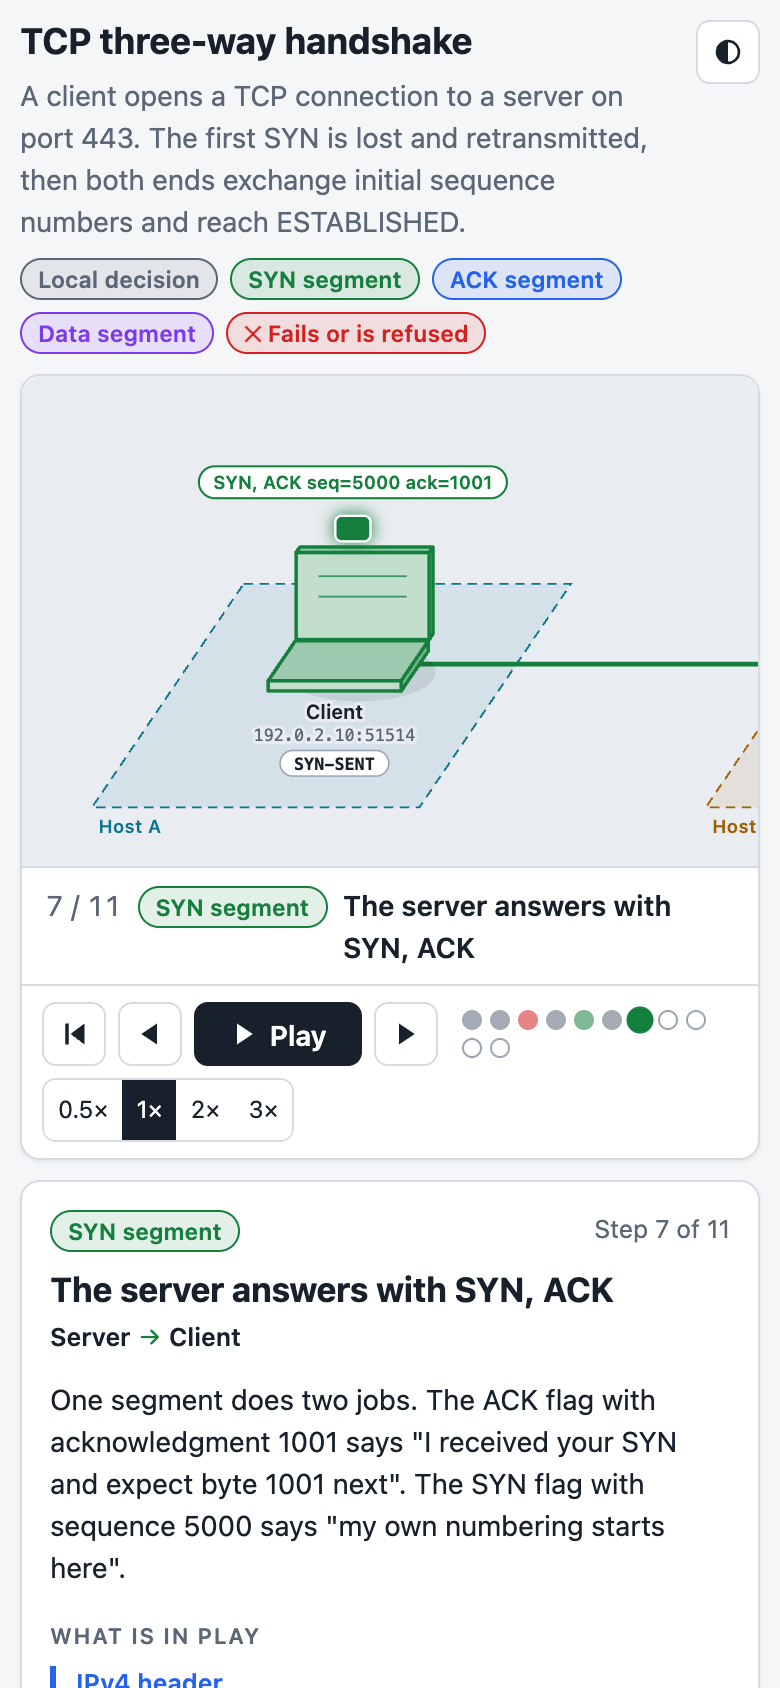
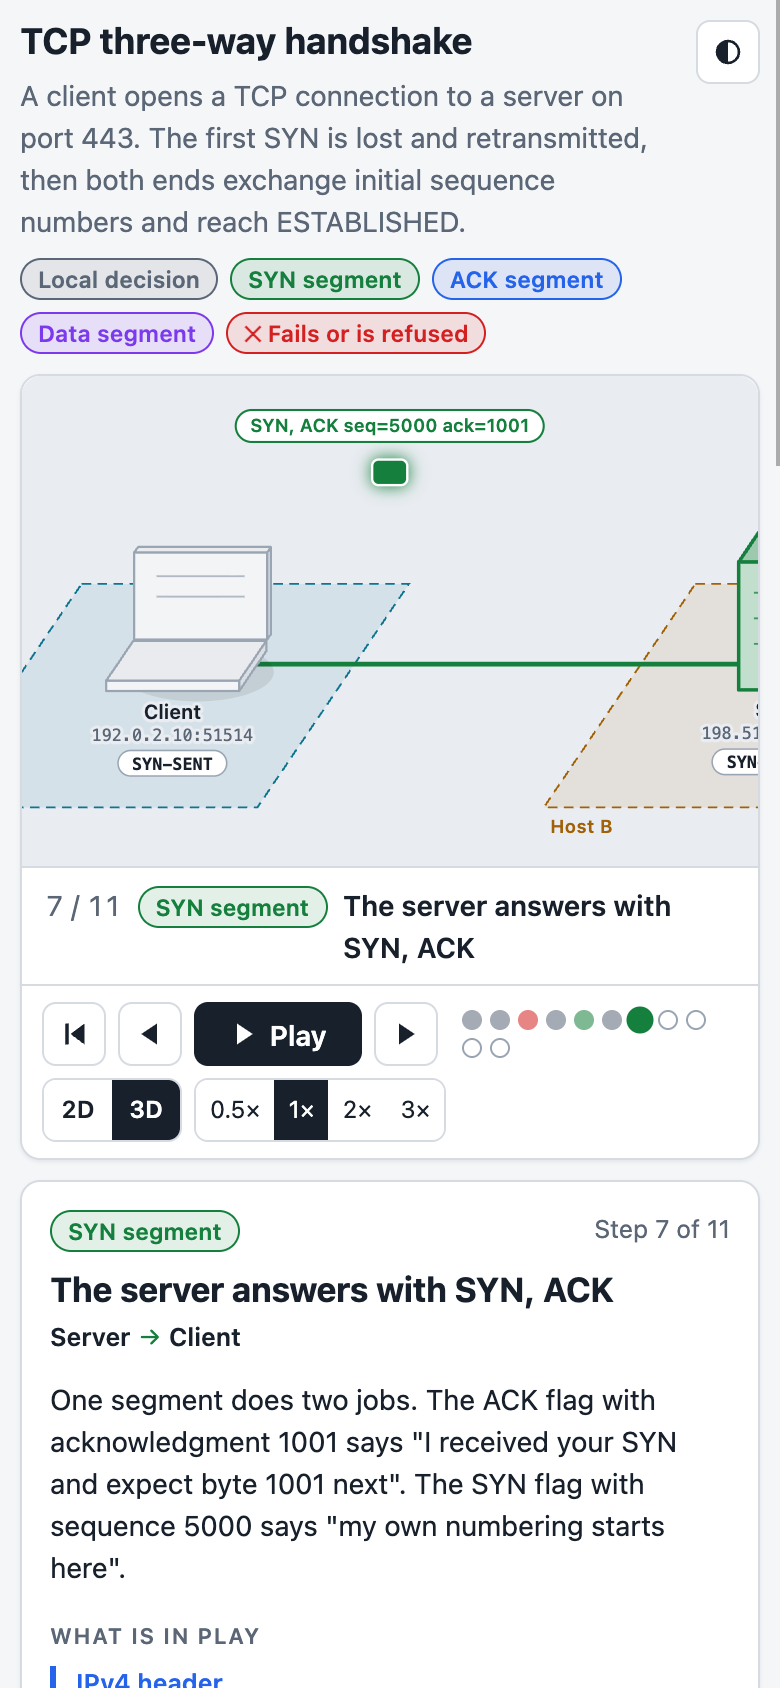
Show the two views in the README and refresh the screenshots

diff --git a/README.md b/README.md
@@ -4,7 +4,7 @@
 
 An agent skill that turns any process, protocol, architecture or algorithm into an interactive, step-by-step visual explainer.
 
-You ask your coding agent something like "visualize how the TCP handshake works". The agent researches the subject, writes it down as data (who takes part, and what happens one step at a time), and builds a single HTML file you can open in any browser: a scene, a token that moves between the parts, a sequence timeline, and an inspector that shows exactly what is in play at each step and what changed.
+You ask your coding agent something like "visualize how the TCP handshake works". The agent researches the subject, writes it down as data (who takes part, and what happens one step at a time), and builds a single HTML file you can open in any browser: a scene that can be seen in 3D or as a flat 2D plan, a token that moves between the parts, a sequence timeline, and an inspector that shows exactly what is in play at each step and what changed.
 
 ![The TCP handshake example. The first SYN has been lost: the token stopped half way and is crossed out, and the inspector says why.](docs/screenshots/tcp-handshake-lost-syn.png)
 
@@ -20,6 +20,16 @@ The agent does not write a renderer, an animation loop or any CSS. Those ship wi
 
 This method comes from [Network Graph](https://network-graph-sigma.vercel.app), where fourteen networking lessons (NAT, ARP, DHCP, DNS, TCP, load balancers and more) are written as data and one player renders them all. Network Graph is the reference project and the worked example of the method at full size. This skill is the method on its own, with a smaller player that needs no build step.
 
+## Two views of one scene
+
+Every explainer can be seen two ways, and the reader switches between them with the 2D / 3D buttons or the `V` key. The 3D view shows the parts as solids standing on the ground. The 2D view is the same scene seen straight from above: a flat plan with a tile and an icon for each part, zones as rectangles, and labels placed where they do not cover each other. The turn from one to the other is animated (instantly, if the system asks for reduced motion), and it can be reversed half way.
+
+| 3D | 2D |
+| --- | --- |
+| ![The OAuth example in the 3D view: the API call travels from the client app to the resource server, drawn as a drum inside the provider's zone.](docs/screenshots/views-oauth-3d.png) | ![The same step in the 2D plan: flat tiles with icons, the provider's zone as a rectangle, and the call running along its link.](docs/screenshots/views-oauth-2d.png) |
+
+A spec chooses the view it opens in (`"view": "2d"` or `"3d"`, 3D when left out). The plan suits topology and containment, the 3D view suits layers and things where height means something; [`method.md`](skills/visualize-anything/references/method.md) says more. Once a reader has switched, the browser remembers their choice for that explainer.
+
 ## Examples
 
 Three subjects, chosen to be different from each other. Each link is the built file; download it and open it, or clone the repository and open it from `examples/`.
@@ -27,35 +37,35 @@ Three subjects, chosen to be different from each other. Each link is the built f
 | Example | Subject | Spec | Built |
 | --- | --- | --- | --- |
 | TCP three-way handshake | A network protocol. Two hosts, a lost SYN and its retransmission, connection state on both sides. | [json](skills/visualize-anything/examples/tcp-handshake.json) | [html](examples/tcp-handshake.html) |
-| OAuth 2.0 authorization code flow with PKCE | A security protocol with five parties, HTTP payloads, and a replayed code that is refused. | [json](skills/visualize-anything/examples/oauth-authorization-code.json) | [html](examples/oauth-authorization-code.html) |
+| OAuth 2.0 authorization code flow with PKCE | A security protocol with five parties, HTTP payloads, and a replayed code that is refused. Opens in the 2D plan. | [json](skills/visualize-anything/examples/oauth-authorization-code.json) | [html](examples/oauth-authorization-code.html) |
 | Hash map collision | A data structure. Two keys land in one bucket; a lookup for a missing key fails. | [json](skills/visualize-anything/examples/hash-map-collision.json) | [html](examples/hash-map-collision.html) |
 
 | | |
 | --- | --- |
-| ![OAuth example, dark theme: the token request with its form body and raw HTTP payload.](docs/screenshots/oauth-token-request-dark.png) | ![OAuth example: a replayed authorization code is refused. The server is marked red and the checks that failed are highlighted.](docs/screenshots/oauth-refused-dark.png) |
+| ![OAuth example in the 2D plan, dark theme: the token request with its form body and raw HTTP payload.](docs/screenshots/oauth-token-request-dark.png) | ![OAuth example in 3D: a replayed authorization code is refused. The server is marked red and the checks that failed are highlighted.](docs/screenshots/oauth-refused-dark.png) |
 | ![Hash map example: a second key is chained in bucket 0, and the changed table cell is highlighted.](docs/screenshots/hash-map-collision.png) | ![TCP example with the SYN, ACK segment in flight between server and client.](docs/screenshots/tcp-handshake-in-flight.png) |
 
 On a phone the scene scrolls and follows the token:
 
 <p>
 <img src="docs/screenshots/phone-tcp-light.png" alt="TCP example at 390 px wide, light theme" width="260">
-<img src="docs/screenshots/phone-oauth-dark.png" alt="OAuth example at 390 px wide, dark theme" width="260">
+<img src="docs/screenshots/phone-oauth-dark.png" alt="OAuth example in the 2D plan at 390 px wide, dark theme" width="260">
 </p>
 
 The screenshots were taken from the built examples in headless Chrome.
 
 ## What an explainer contains
 
-- A 2.5D scene of actors (drawn as simple solids), zones and links.
-- One token per step. It travels between two actors, or pulses above one actor for a decision or lookup that happens inside it.
+- A scene of actors, zones and links in two views: 3D, with actors drawn as simple solids, and a flat 2D plan seen from above, with actors drawn as tiles with an icon. The spec picks the view it opens in; the reader can switch at any time.
+- One token per step. It travels between two actors, or pulses on one actor for a decision or lookup that happens inside it.
 - Failure steps drawn differently: the token stops part-way, turns red and is crossed out, and the reason is shown.
 - A status chip under each actor for state that persists (a connection state, the contents of a slot).
 - A sequence timeline of every step. Click a row to jump to it.
 - An inspector: title, description, field tables with rewritten fields highlighted, a raw payload, state tables in which cells that changed since the table was last shown are highlighted, and notes.
-- Play, pause, step, restart, four speeds. Keyboard: `Space` play or pause, `←` `→` step, `Home` `End` first or last, `,` `.` slower or faster, `T` theme.
+- Play, pause, step, restart, four speeds, 2D or 3D. Keyboard: `Space` play or pause, `←` `→` step, `Home` `End` first or last, `,` `.` slower or faster, `V` 2D or 3D, `T` theme.
 - Light and dark themes that follow the system setting. A layout that works down to 390 px wide.
 - A closing panel that lists what the model leaves out and the sources it was built from.
-- One HTML file of about 50 kB. No network requests, no dependencies, no server.
+- One HTML file of about 70 kB. No network requests, no dependencies, no server.
 
 ## Install
 
@@ -155,7 +165,7 @@ skills/visualize-anything/     the skill: the only source of truth
   references/spec.md           the spec format, field by field
   references/method.md         how to model a subject so that it teaches
   assets/player.html           the player: one file, no dependencies
-  scripts/validate.mjs         checks a spec, with messages that say how to fix it
+  scripts/validate.mjs         checks a spec, with messages that say how to fix it (both views)
   scripts/build.mjs            embeds a spec into the player
   examples/*.json              three complete specs
 examples/*.html                the three examples, built
@@ -215,10 +225,10 @@ Checked against each product's documentation on 2026-11-11. Products change; if 
 
 - The explainer is a teaching model, not an emulator. Nothing is computed: every value on screen was written into the spec.
 - One linear sequence per explainer. No branching by viewer choice, no loops, no parallel tokens. A "what if" case is modelled as extra steps at the end.
-- The scene is 2.5D with eight fixed shapes. There are no custom icons and no free camera.
+- The scene has two fixed views (3D and a flat 2D plan) and eight fixed shapes. There are no custom icons, no free camera, and no pan or zoom: the scene is fitted to its box, and on a narrow screen it scrolls and follows the token.
 - About nine actors and twenty-six steps is the practical ceiling. Larger subjects should be split.
 - Accuracy depends on the agent and on the sources it could reach. The validator checks structure, layout and the presence of sources and a failure case. It cannot check facts.
-- Layout is chosen by the agent using coordinates. The validator catches overlapping actors and colliding labels, but a scene can still be legible and ugly.
+- Layout is chosen by the agent using coordinates. The validator catches overlapping actors and colliding labels in both views, but a scene can still be legible and ugly.
 - The player needs a browser from about 2023 or later (it uses the CSS `color-mix()` function).
 - Text is English, left to right. The player's own labels are not translatable yet.
 
